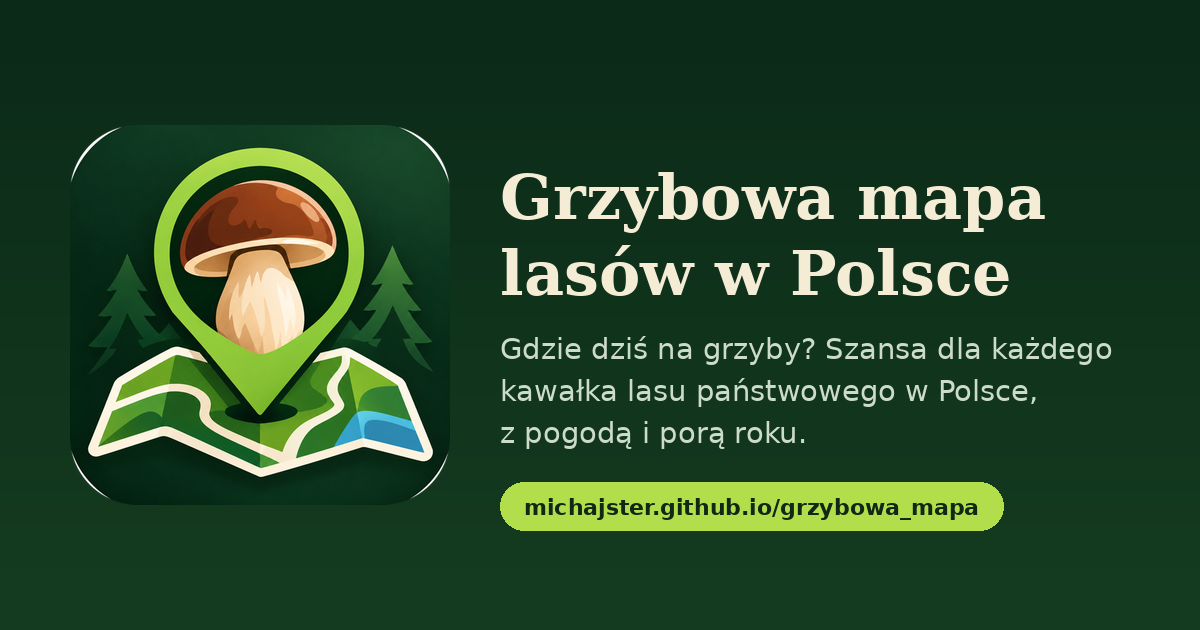
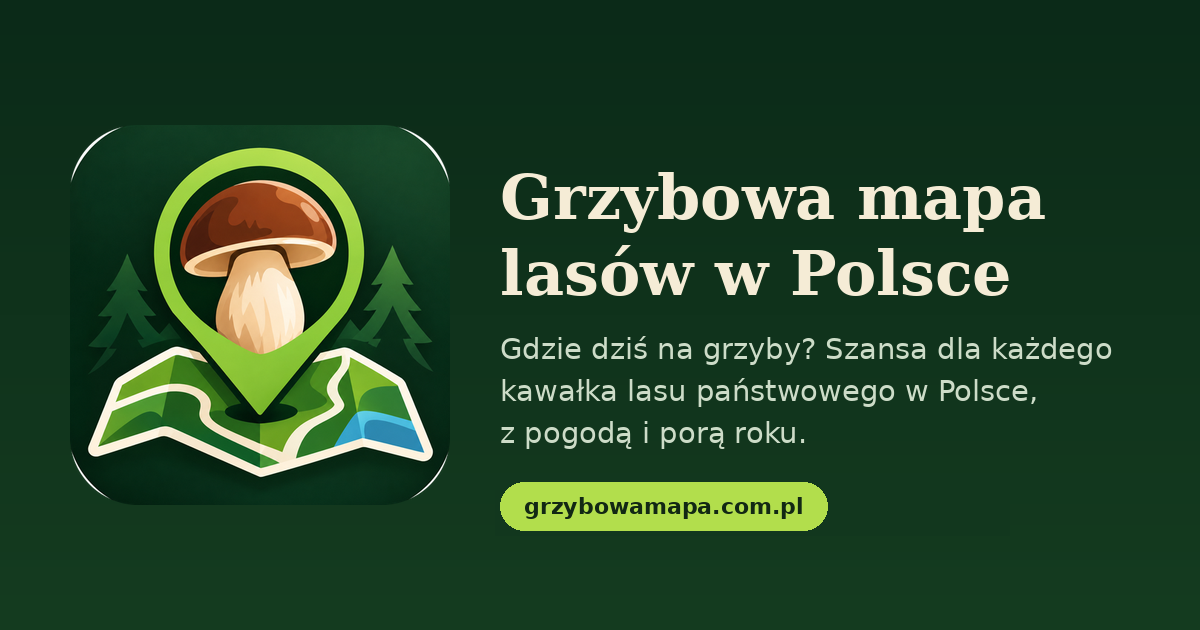
Własna domena grzybowamapa.com.pl
Claude-Session: https://claude.ai/code/session_01W8AE1cpu71hpjTNCqUSZ4H

Changed region(s): [[0.4317, 0.754, 0.8633, 0.8444]]

diff --git a/index.html b/index.html
@@ -9,8 +9,8 @@
 <meta property="og:locale" content="pl_PL">
 <meta property="og:title" content="Grzybowa mapa">
 <meta property="og:description" content="Gdzie dziś na grzyby? Szansa dla każdego kawałka lasu państwowego w Polsce, z pogodą i porą roku. Za darmo, bez reklam.">
-<meta property="og:url" content="https://michajster.github.io/grzybowa_mapa/">
-<meta property="og:image" content="https://michajster.github.io/grzybowa_mapa/og.png">
+<meta property="og:url" content="https://grzybowamapa.com.pl/">
+<meta property="og:image" content="https://grzybowamapa.com.pl/og.png">
 <meta property="og:image:width" content="1200">
 <meta property="og:image:height" content="630">
 <meta name="twitter:card" content="summary_large_image">
@@ -704,7 +704,7 @@ function unpack(d){
 // wszystkie obszary na jednej warstwie canvas – osobne warstwy przykrywały się i blokowały kliknięcia
 const map = L.map("map", {zoomControl:true, preferCanvas:true, renderer: L.canvas({padding:0.3, tolerance:3})}).setView([52.0,19.3], 6);
 // Klucz MapTiler (darmowy plan na maptiler.com) wpisuje się w panelu „Podkład mapy”. Bez klucza: OpenStreetMap.
-// Klucz projektu (ograniczony w MapTilerze do domeny michajster.github.io i localhost).
+// Klucz projektu (ograniczony w MapTilerze do domen grzybowamapa.com.pl, michajster.github.io i localhost).
 // Własny klucz wpisany w panelu „Podkład mapy” ma pierwszeństwo.
 const MAPTILER_DEFAULT_KEY = "AqvoyjZkjr2z3PxDmOy6";
 const MAPTILER_KEY = (()=>{ try { return JSON.parse(localStorage.getItem("gm-maptiler")||'""'); } catch(e){ return ""; } })() || MAPTILER_DEFAULT_KEY;

diff --git a/README.md b/README.md
@@ -2,6 +2,8 @@
 
 Mapa szansy na grzyby w lasach państwowych całej Polski: 429 nadleśnictw ze wszystkich 17 RDLP, ok. 2,2 mln wydzieleń. Dla każdego wydzielenia leśnego szacuje warunki dla pięciu gatunków (prawdziwek, podgrzybek, koźlarze, kurka, maślak) na podstawie opisu drzewostanu, pogody z ostatnich tygodni i pory roku.
 
+Adres: https://grzybowamapa.com.pl
+
 Strona jest statyczna: `index.html` + dane w folderze `data/`, ładowane na żądanie.
 
 ## Źródła danych
